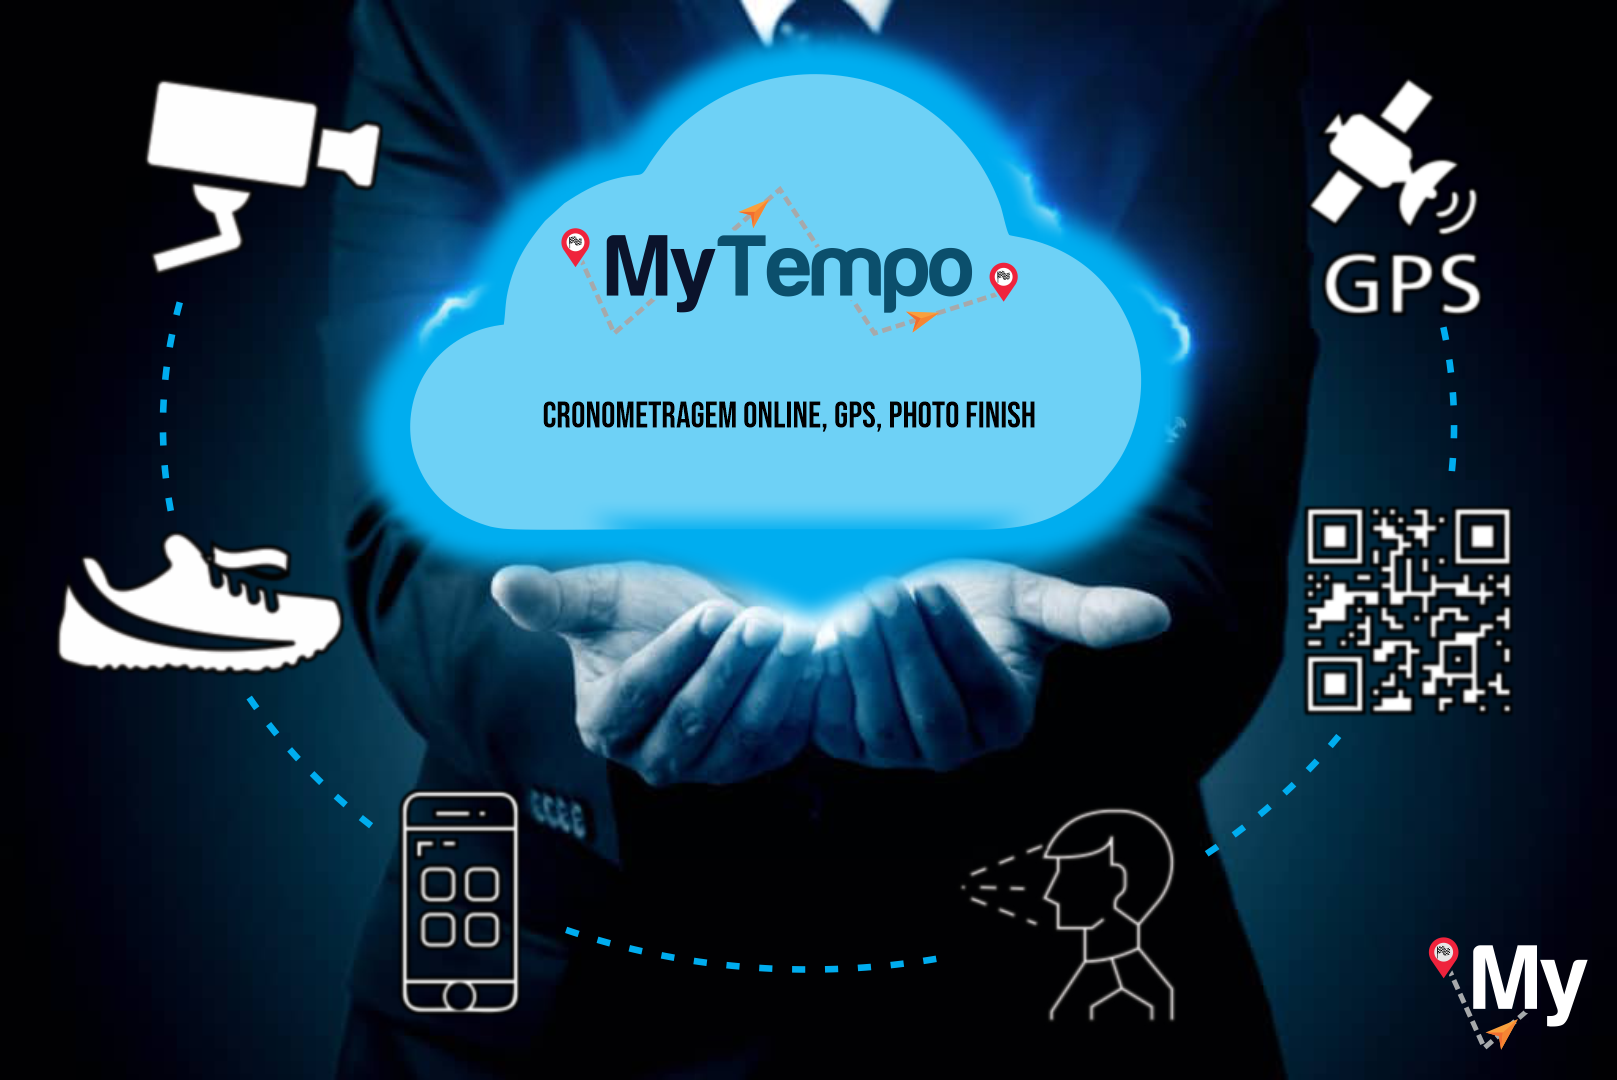
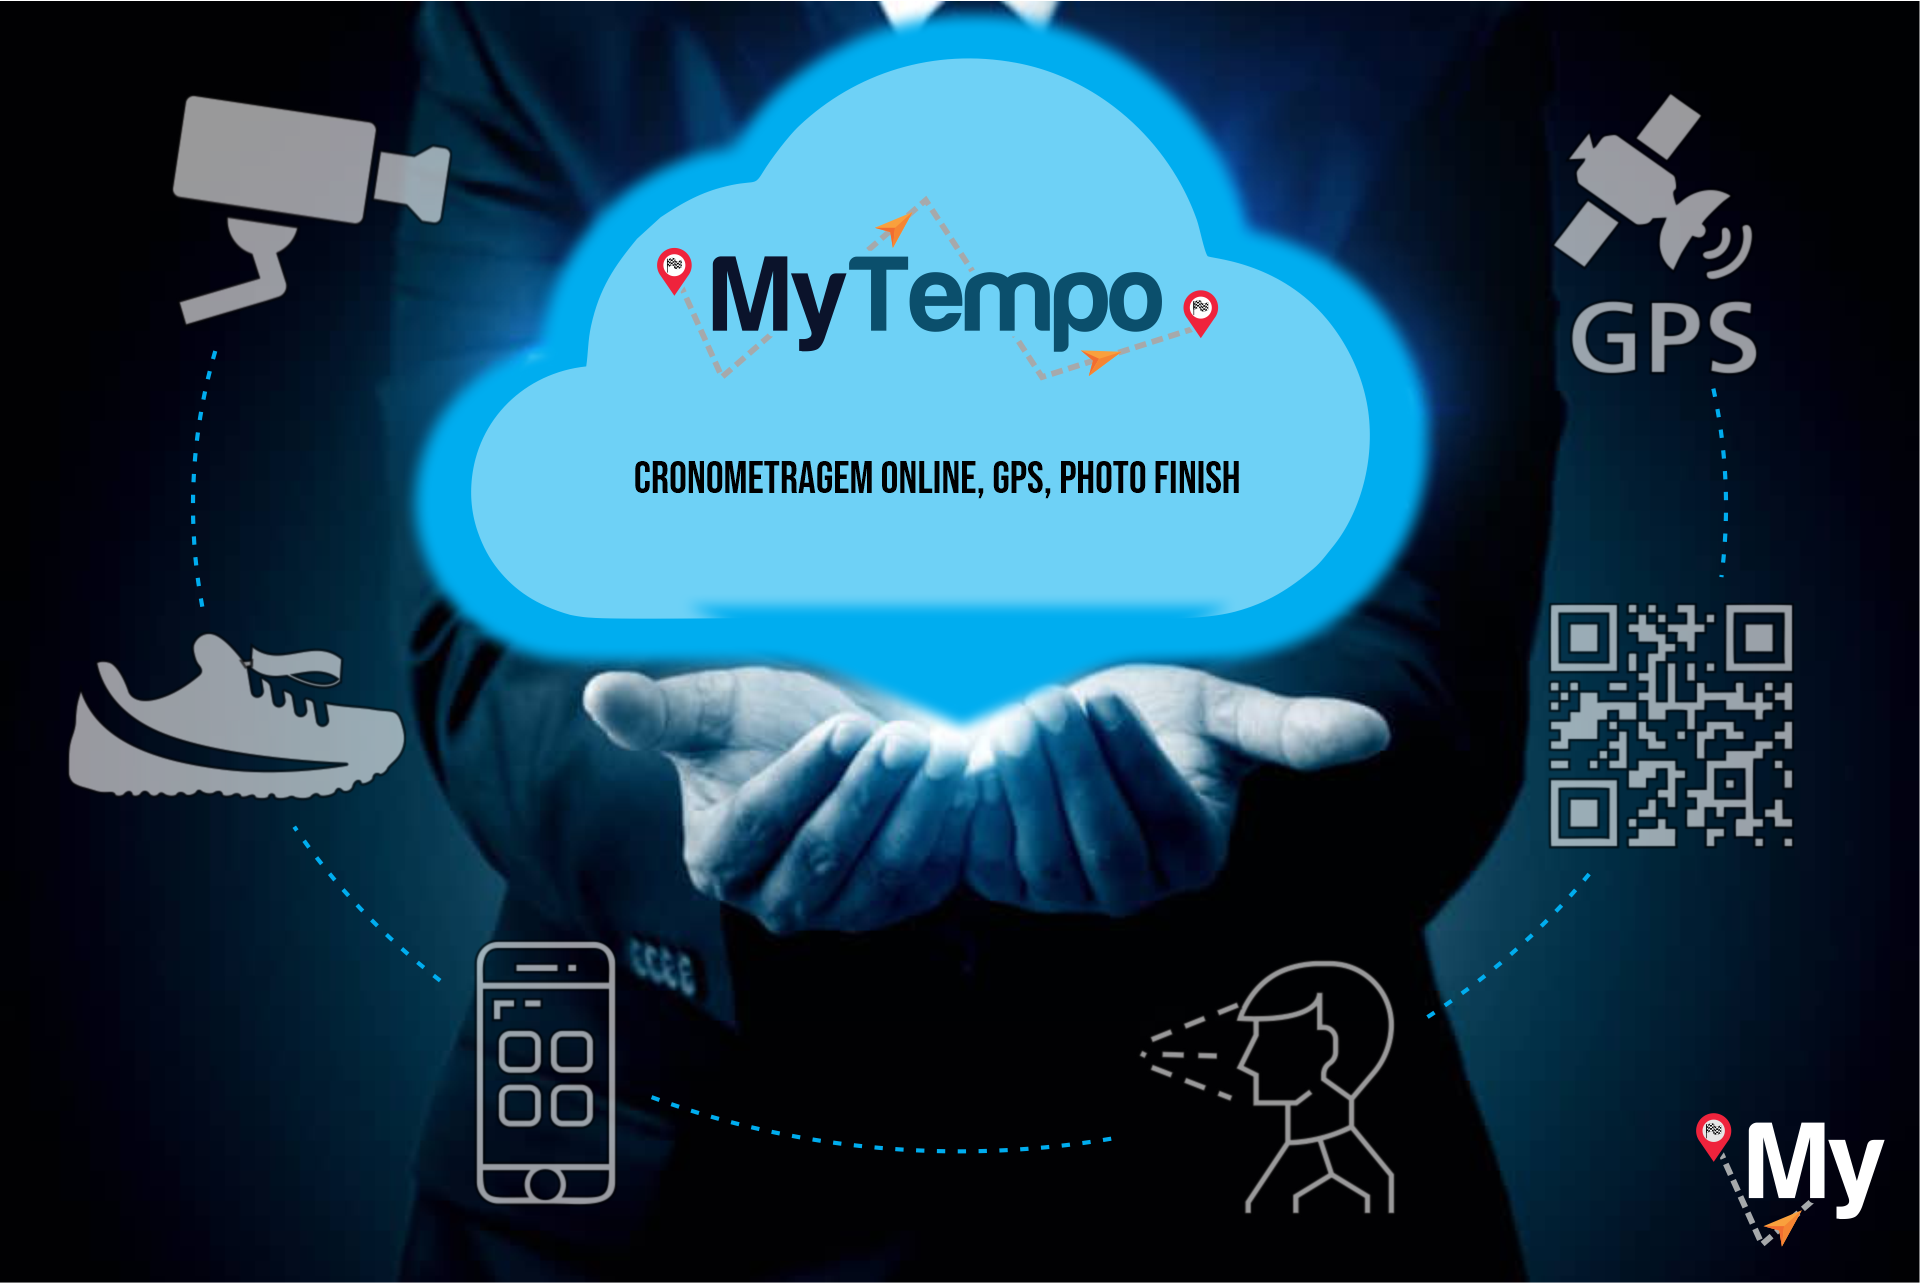
m

diff --git a/index.html b/index.html
@@ -38,10 +38,10 @@
     </header>
 
     <section id="home" class="hero">
-        <div class="hero-text">
+        <!-- <div class="hero-text">
             <h1>Bem-vindo ao Meu Site</h1>
             <p>Aqui é onde você encontra tudo o que precisa.</p>
-        </div>
+        </div> -->
     </section>
 
     <section id="sobre" class="container">
@@ -54,7 +54,7 @@
                 <!-- <button class="carousel-prev">&#10094;</button> -->
                 <div class="carousel-images">
                     <a href="more.html">
-                        <img src="src/img2/kerlo.jpeg" class="img1" alt="Sobre Imagem 2">
+                        <img src="src/img2/tec.png" class="img1" alt="Sobre Imagem 2">
                     </a>
                     <!-- <img src="src/img2/jao.jpeg" class="img1" alt="Sobre Imagem 1">
                         <img src="src/img2/rodrigovis.jpeg" class="img1" alt="Sobre Imagem 3"> -->

diff --git a/src/css/style.css b/src/css/style.css
@@ -119,17 +119,16 @@ nav ul li a:hover {
 }
 
 .hero {
-    height: 100vh;
-    width: 90%;
-    display: flex;
+    height: 101vh;
+    /* display: flex;
     flex-direction: column;
     align-items: center;
     justify-content: center;
     text-align: center;
-    color: #ffffff;
-    background-image: url(../img2/bk2temp.png);
-    background-repeat: no-repeat;
+    color: #ffffff; */
+    background-image: url(../img2/bk2temp-3.png);
     background-size: cover;
+    background-size: 100%;
     background-position: center;
 }
 
